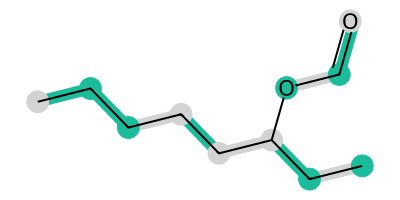
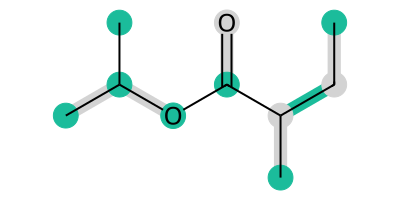
Add CLI argparse

Changed region(s): [[0.06, 0.03, 0.96, 0.96]]

diff --git a/main.py b/main.py
@@ -1,4 +1,5 @@
 import numpy as np 
+import sys
 import pandas as pd 
 import random
 import matplotlib.pyplot as plt
@@ -11,27 +12,21 @@ from rdkit.Chem import Draw
 from torch_geometric.explain import Explanation, Explainer, ModelConfig
 from torch_geometric import explain
 from explainer import visualize_molecule_explanation
+import argparse
 
-
+# WIP: add terminal args
 if __name__ == '__main__':
+    parser = argparse.ArgumentParser(prog='OdourGNN', description='Predicting molecular odour using GNNs')
+    parser.add_argument('-path', '--data-path')
+    parser.add_argument('-mv', '--mol_vis', action='store_true')
+    parser.add_argument('-pre', '--use_pretrained', action='store_false')
+    parser.add_argument('-test', '--test', action='store_true')
+    parser.add_argument('-exp', '--explain', action='store_true')
 
-    df_path = 'data/Multi-Labelled_Smiles_Odors_dataset.csv'
+    args = parser.parse_args()
+
+    df_path = args.path if args.path else 'data/Multi-Labelled_Smiles_Odors_dataset.csv'
     odor_df = pd.read_csv(df_path)
-
-    # Molecule Visualization 
-    # fig, axs = plt.subplots(nrows=5, ncols=2, figsize=(3, 7))
-    # for i in range(20):
-    #     m = Chem.MolFromSmiles(odor_df['nonStereoSMILES'][i])
-    #     img = Draw.MolToImage(m)
-    #     axs[i%5][i%2].imshow(img)
-    #     axs[i%5][i%2].set_xticks([])
-    #     axs[i%5][i%2].set_yticks([])
-
-    # # plt.xticks([])
-    # # plt.yticks([])
-    # fig.tight_layout()
-    # plt.show()
-
 
     X = odor_df.iloc[:, 0]
     classes = odor_df.columns[2:]
@@ -52,21 +47,38 @@ if __name__ == '__main__':
     num_epochs = 50
     lr = 1e-4
     weight_decay = 1e-6
-    use_pretrained = False
+    use_pretrained = args.use_pretrained
+    test_mode = args.test
+    mol_vis = args.mol_vis
+
+
+    # Molecule Visualization 
+    if mol_vis:
+        fig, axs = plt.subplots(nrows=5, ncols=2, figsize=(3, 7))
+        for i in range(20):
+            m = Chem.MolFromSmiles(odor_df['nonStereoSMILES'][i])
+            img = Draw.MolToImage(m)
+            axs[i%5][i%2].imshow(img)
+            axs[i%5][i%2].set_xticks([])
+            axs[i%5][i%2].set_yticks([])
+
+        # plt.xticks([])
+        # plt.yticks([])
+        fig.tight_layout()
+        plt.show()
+
 
 
     model_GIN = odorGIN.OdorGIN(in_channels, hidden_channels, num_layers)
     optimizer = torch.optim.Adam(model_GIN.parameters(), lr=lr, weight_decay=weight_decay)
-    mode = 'pretrained'
 
-    if mode == 'train':
+    if not use_pretrained:
        train_model(model_GIN, num_epochs, lr, weight_decay, train_loader, val_loader, batch_size)
     else:
        model_GIN.load_state_dict(torch.load("wandb/run-20241022_115722-1tq4w6oy/files/gin-best-model.pth", weights_only=True))
 
     # print(model_GIN.state_dict())
 
-    test_mode = False
     if test_mode:
         classes = odor_df.columns[2:].to_numpy()
         softmax_cutoff = 0.001
@@ -93,18 +105,19 @@ if __name__ == '__main__':
     # Explainer for edge structure
     # Node mask: for each node object
     # Edge mask: for each edge object
-    ob_explainer = Explainer(
-        model_GIN, 
-        algorithm=explain.algorithm.GNNExplainer(),
-        explanation_type="model", 
-        model_config=ModelConfig(mode="binary_classification", task_level="graph", return_type="probs"),
-        node_mask_type="object",
-        edge_mask_type="object"
-    )
+    if(args.explain):
+        ob_explainer = Explainer(
+            model_GIN, 
+            algorithm=explain.algorithm.GNNExplainer(),
+            explanation_type="model", 
+            model_config=ModelConfig(mode="binary_classification", task_level="graph", return_type="probs"),
+            node_mask_type="object",
+            edge_mask_type="object"
+        )
 
-    # random visualizations
-    idx = random.sample(range(len(test_set)), 25)
-    for i in idx:
-      visualize_molecule_explanation(test_set, i, ob_explainer)
+        # random visualizations
+        idx = random.sample(range(len(test_set)), 25)
+        for i in idx:
+          visualize_molecule_explanation(test_set, i, ob_explainer)
 
     

diff --git a/explainer.py b/explainer.py
@@ -12,7 +12,6 @@ from matplotlib import colors
 # from IPython.display import SVG
 
 
-
 def atom_col(atom_imp):
   col = {}
   threshold = torch.mean(atom_imp)
@@ -22,7 +21,8 @@ def atom_col(atom_imp):
     else:
       col[i] = colors.to_rgb('#D3D3D3')
   return col
-    
+
+
 # Assign colors to edges with higher than average scores
 def bond_col(mol, bond_imp, edge_id, threshold=0.5):
   col = {}
